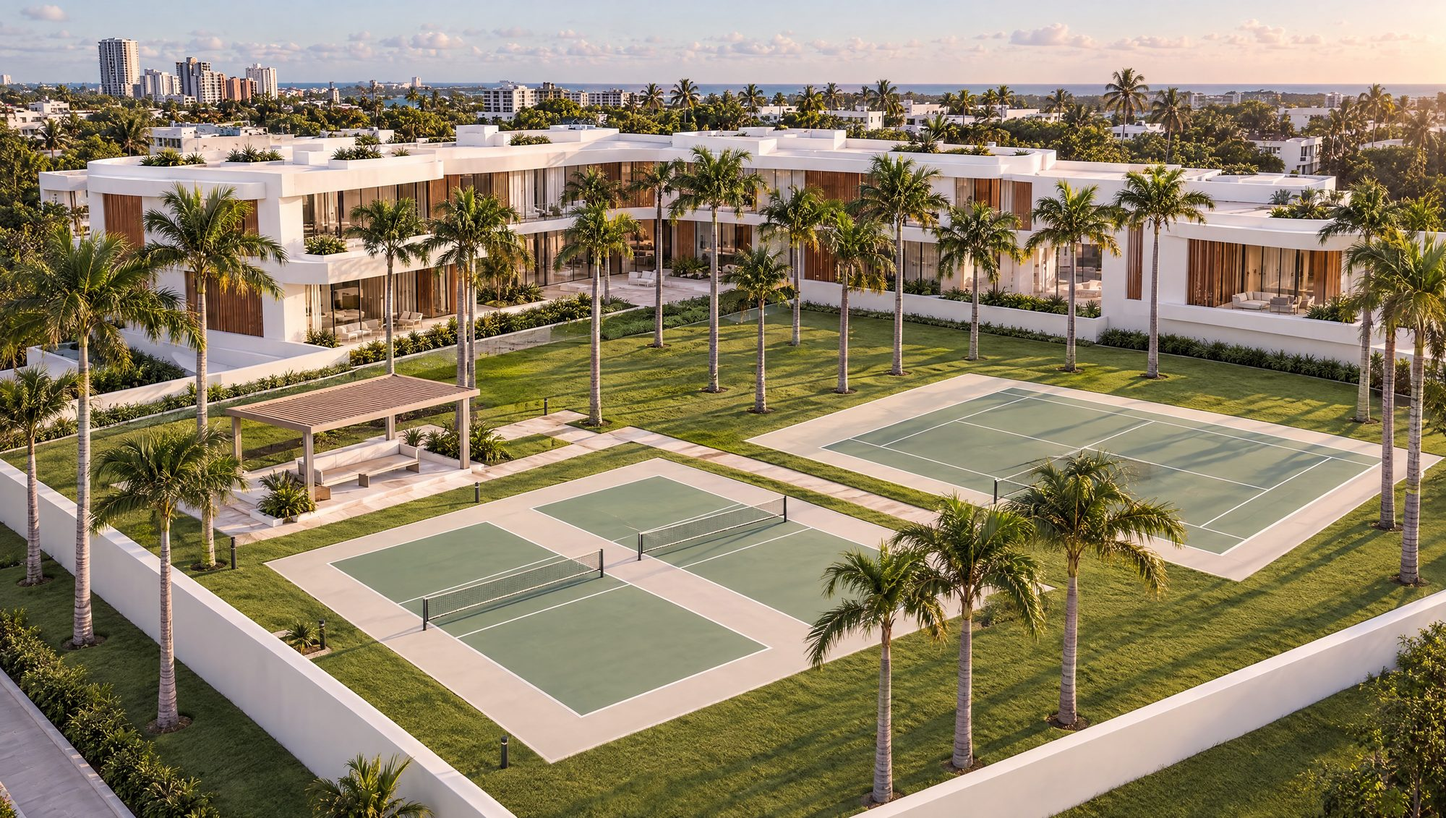
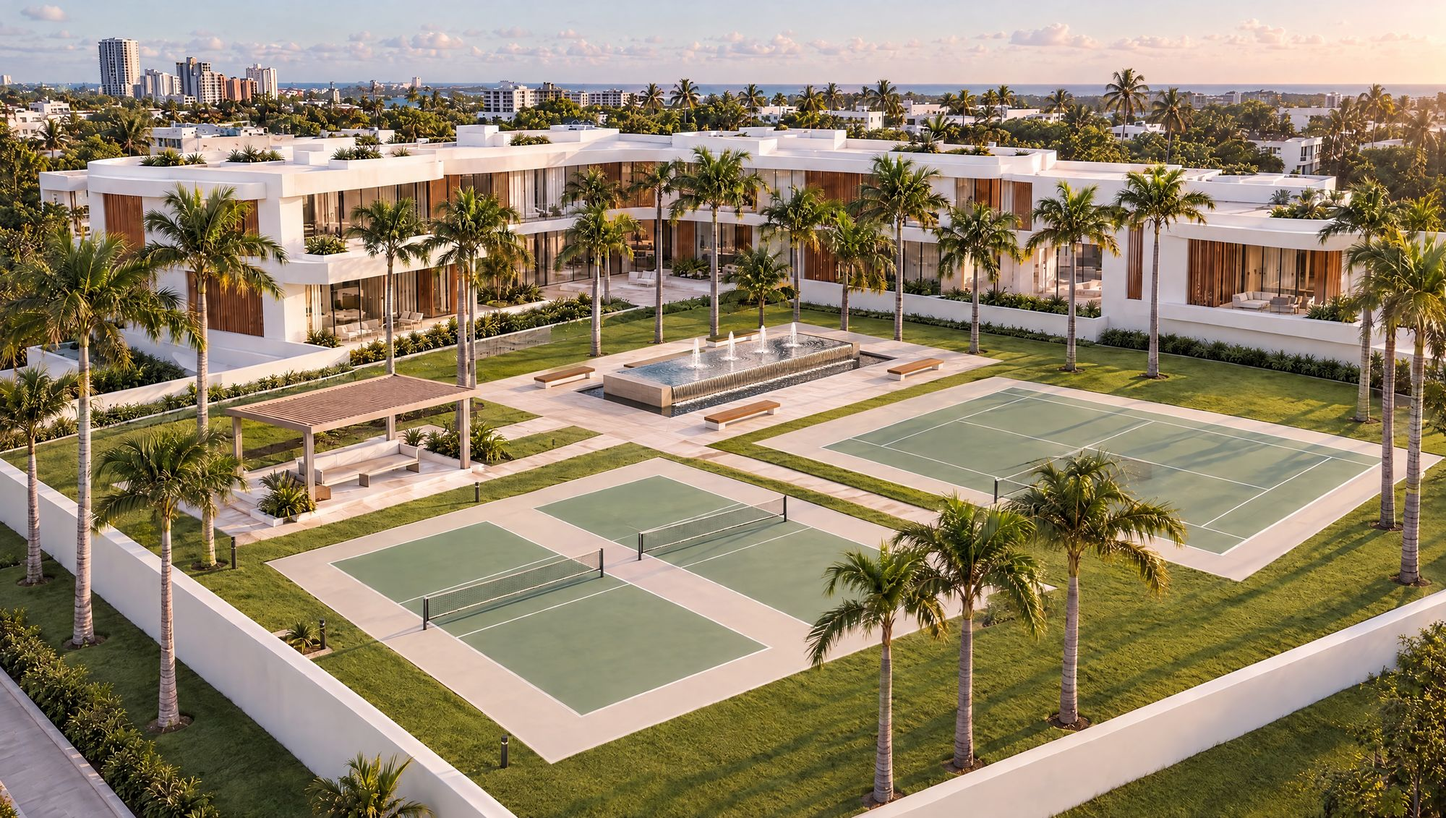
Add a modern fountain with benches beside the courts
Fills the empty lawn between the residence and the tennis court with a
travertine fountain (linear weir and vertical jets) and teak benches.

Claude-Session: https://claude.ai/code/session_01S7b28xHt44m2WStmS8adg2

diff --git a/es/index.html b/es/index.html
@@ -192,7 +192,7 @@
         <figcaption data-i18n="leis.cap2">El restaurante del jardín</figcaption>
       </figure>
       <figure class="wellness__item reveal">
-        <img src="/assets/img/courts.jpg?v=1" alt="Canchas conceptuales de pickleball y tenis tierra adentro, entre palmas" loading="lazy">
+        <img src="/assets/img/courts.jpg?v=2" alt="Canchas conceptuales de pickleball y tenis junto a una fuente moderna con bancos" loading="lazy">
         <figcaption data-i18n="leis.cap3">Pickleball y tenis</figcaption>
       </figure>
     </div>

diff --git a/index.html b/index.html
@@ -192,7 +192,7 @@
         <figcaption data-i18n="leis.cap2">The garden restaurant</figcaption>
       </figure>
       <figure class="wellness__item reveal">
-        <img src="/assets/img/courts.jpg?v=1" alt="Conceptual pickleball and tennis courts set inland among palms" loading="lazy">
+        <img src="/assets/img/courts.jpg?v=2" alt="Conceptual pickleball and tennis courts beside a modern fountain with benches" loading="lazy">
         <figcaption data-i18n="leis.cap3">Pickleball and tennis</figcaption>
       </figure>
     </div>

diff --git a/tools/build-es.py b/tools/build-es.py
@@ -85,8 +85,8 @@ alts = {
         'Terraza de piscina conceptual enmarcada por las residencias, lejos de la playa',
     'Conceptual garden restaurant with residents dining at golden hour':
         'Restaurante conceptual en el jardín con residentes cenando al atardecer',
-    'Conceptual pickleball and tennis courts set inland among palms':
-        'Canchas conceptuales de pickleball y tenis tierra adentro, entre palmas',
+    'Conceptual pickleball and tennis courts beside a modern fountain with benches':
+        'Canchas conceptuales de pickleball y tenis junto a una fuente moderna con bancos',
 }
 for en_alt, es_alt in alts.items():
     swap(f'alt="{en_alt}"', f'alt="{es_alt}"')
